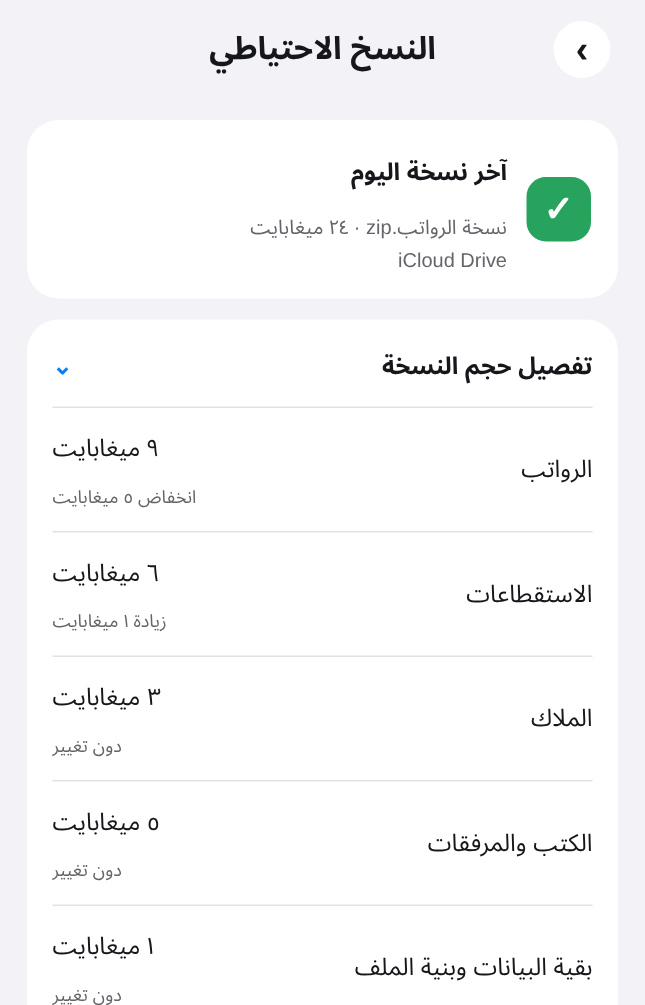
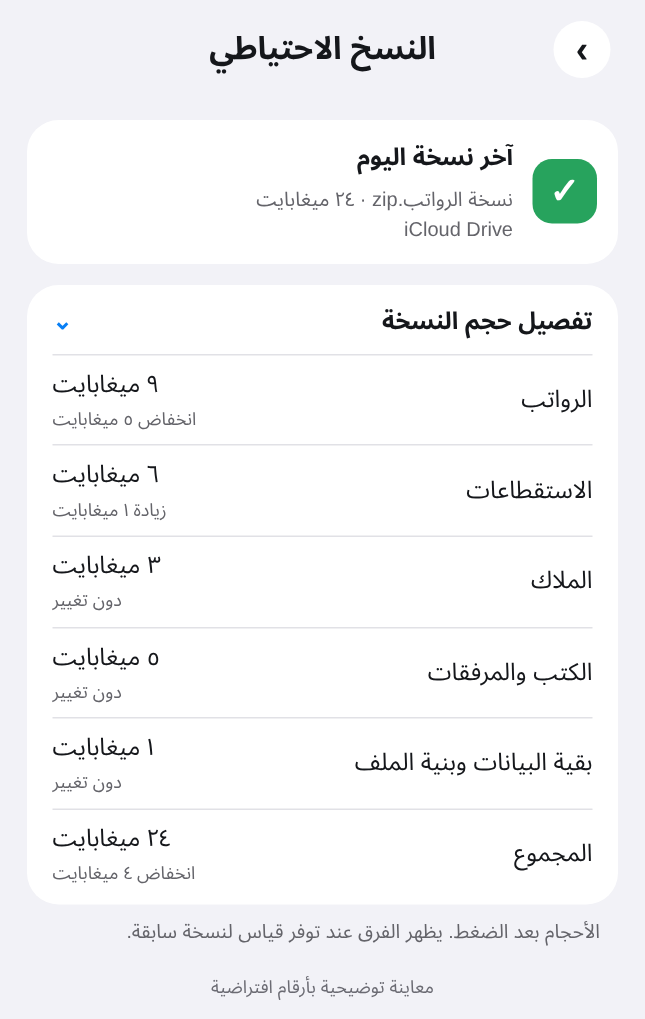
Audit restored balances with the production bank statement engine
- Compare both monthly bank statements to independent expected amounts, including payment methods, contract rounding, deductions and the company split.
- Check the saved size history in the backup smoke test and show the complete breakdown in the design preview.

diff --git a/ci/compact_backup_test/Test.swift b/ci/compact_backup_test/Test.swift
@@ -51,6 +51,7 @@ import CoreGraphics
             record.itemSummaryData = try encoder.encode(["حقل تجريبي": 42 + m])
             context.insert(record)
         }
+        var expectedMethods: [String: [Int: Double]] = [:]
         for i in 0..<count {
             let month = months[i % 2], name = "منتسب تجريبي " + String(i / 2)
             let net: Double? = i % 13 == 0 ? nil : Double(400_000 + i) + 0.25
@@ -63,8 +64,17 @@ import CoreGraphics
             case 1: raw = Data([0, 123, 255])
             default: raw = try encoder.encode(PayrollColumnSnapshot(headers: i.isMultiple(of: 2) ? headers : headers.reversed(), values: values))
             }
-            context.insert(Employee(month: month, name: name, rank: "عقود", workplace: "قسم تجريبي", netSalary: net,
-                                    items: [title: amount], details: ["رقم": String(i)], rawColumnsData: raw))
+            let method = i % 3
+            expectedMethods[month, default: [:]][method, default: 0] += net ?? 0
+            let details = ["رقم": String(i), "طريقة الدفع": ["بطاقة","كاش",""][method]]
+            var items = [title: amount, "مجموع استقطاعات المصارف": amount, "الرعاية الصحية": 3500,
+                         "صندوق شهداء الشرطة": 250, "الضريبة": 500, "الحماية الاجتماعية": 125, "عراق الجوال": 1000]
+            if i < 6 {
+                items["الاسمي"] = [60_000_000, 60_000_000, 58_723_001][i / 2]
+                items["توقيفات تقاعدية"] = [40_000, 40_000, 45_000][i / 2]
+            }
+            context.insert(Employee(month: month, name: name, rank: i < 6 ? "عقود" : "موظف", workplace: "قسم تجريبي", netSalary: net,
+                                    items: items, details: details, rawColumnsData: raw))
             context.insert(Deduction(month: month, employeeName: name, title: title, amount: amount, note: "تجريبي", rank: "عقود"))
             expectedNet[month, default: 0] += net ?? 0
             expectedDeduct[month + title, default: 0] += amount
@@ -104,6 +114,33 @@ import CoreGraphics
         bank.manualContractOverride = restoredOverrides[months[0]]
         bank.cardNet = restored.net[months[0]]!; bank.bankDeductions = 4800
         precondition(bank.bankTotal == expectedNet[months[0]]! + 4800 + manual.total)
+
+        let defaults = UserDefaults.standard
+        let oldOverride = defaults.object(forKey: ContractOverrides.settingsKey)
+        defer { defaults.set(oldOverride, forKey: ContractOverrides.settingsKey) }
+        defaults.set(restoredData, forKey: ContractOverrides.settingsKey)
+        for database in [source, destination] {
+            for month in months {
+                let statement = try await BankStatementEngine(modelContainer: database).summary(month: month)
+                let perMonth = Double(count / 2)
+                let expectedExecution = expectedDeduct.filter { $0.key.hasPrefix(month) }.values.reduce(0, +)
+                let expectedContribution = month == months[0] ? 22_000_000.0 : 21_571_760.0
+                precondition(statement.cashNet == expectedMethods[month]![1] && statement.cardNet == expectedMethods[month]![0])
+                precondition(statement.unclassifiedNet == expectedMethods[month]![2] && statement.netSalary == expectedNet[month])
+                precondition(statement.executionMatched && statement.executionCount == count / 2 && statement.executionDeductions == expectedExecution)
+                precondition(statement.contractNominalShare == 21_446_760 && statement.contractContribution == expectedContribution)
+                precondition(statement.breakdown["الرعاية الصحية"] == 3500 * perMonth && statement.breakdown["شركة عراق الجوال"] == 1000 * perMonth)
+                let expectedTotal = expectedNet[month]! + expectedExecution + (3500 + 250 + 500 + 125 + 1000) * perMonth + expectedContribution
+                precondition(statement.bankTotal == expectedTotal)
+                let split = FoodContractReport.Split(total: 1000 * perMonth)
+                precondition(split.fund == 48_000 && split.tax == 27_936 && split.company == 1_524_064)
+            }
+        }
+        for (nominal, rounded) in [(0.0, 0.0), (124, 10), (125, 20), (126, 20), (178_723_001, 21_446_760)] {
+            var example = BankStatementSummary(month: months[0]); example.contractNominal = nominal
+            precondition(example.contractNominalShare == rounded)
+        }
+        print("Production bank statements match independent cash, card, unclassified, deductions, company split, contract rounding, manual overrides and grand totals before and after restore.")
 
         let rowsURL = folder.appendingPathComponent("employees.jsonl")
         let rows = try Data(contentsOf: rowsURL)

diff --git a/SalaryApp/Backup.swift b/SalaryApp/Backup.swift
@@ -1139,9 +1139,10 @@ final class BackupManager {
         #endif
         let trustOK = SalaryTrustSelfTest.run()
         let trustPDFOK = await SalaryTrustSelfTest.pdf()
-        let passed = firstSize > 0 && replacementSize > 0 && periodicSize > 0 && lastSize == Int64(periodicSize)
+        let breakdownOK = sizes?.total == Int64(periodicSize) && previousSizes?.total == Int64(replacementSize)
+        let passed = breakdownOK && firstSize > 0 && replacementSize > 0 && periodicSize > 0 && lastSize == Int64(periodicSize)
             && periodicDue && valid && lastError == nil && count == 1 && serverDatesOK && trustOK && trustPDFOK && scanOK && decorOK
-        LaunchOptions.writeReport("autobackup=\(passed ? "ok" : "failed") serverDates=\(serverDatesOK) trust=\(trustOK) trustPDF=\(trustPDFOK) scan=\(scanOK) decor=\(decorOK) size=\(periodicSize) recorded=\(lastSize) due=\(periodicDue) zip=\(valid) files=\(count) line=\(line) again=\(again)\(diagnostic)")
+        LaunchOptions.writeReport("autobackup=\(passed ? "ok" : "failed") sizeBreakdown=\(breakdownOK) serverDates=\(serverDatesOK) trust=\(trustOK) trustPDF=\(trustPDFOK) scan=\(scanOK) decor=\(decorOK) size=\(periodicSize) recorded=\(lastSize) due=\(periodicDue) zip=\(valid) files=\(count) line=\(line) again=\(again)\(diagnostic)")
     }
 
     // MARK: - الاسترجاع

diff --git a/ci/compact_backup_test/run.py b/ci/compact_backup_test/run.py
@@ -38,7 +38,11 @@ with tempfile.TemporaryDirectory(prefix="payroll-backup-test-") as folder:
         section(models, "/// شهر رواتب واحد", "/// يحفظ نتيجة"), section(models, "nonisolated enum MonthName", "extension PayrollMonth"),
         read("StaffModel").split("/// معلومات آخر استيراد")[0], read("ArabicText").split("enum Money")[0],
         section(accounts, "nonisolated struct SavedExecutionAccount", "    static func merge(") + "}\n",
-        section(read("BankStatement"), "nonisolated struct BankStatementSummary", "/// مبالغ تُدخل"), books
+        section(read("BankStatement"), "nonisolated struct BankStatementSummary", "/// مبالغ تُدخل"),
+        section(read("BankStatement"), "nonisolated enum ContractNominalValue", "/// ملخصات مؤقتة"),
+        section(read("BankStatement"), "@ModelActor", "struct BankStatementView"),
+        section(read("ExcelImporter"), "nonisolated enum DeductionStatus", "nonisolated enum AnnualDeductionAmount"),
+        section(read("FoodContractReport"), "nonisolated enum FoodContractReport", "    static func rows(") + "}", books
     ]
     (src / "Production.swift").write_text(imports + "\n".join(code))
     for name in ["Support.swift","Test.swift"]:
